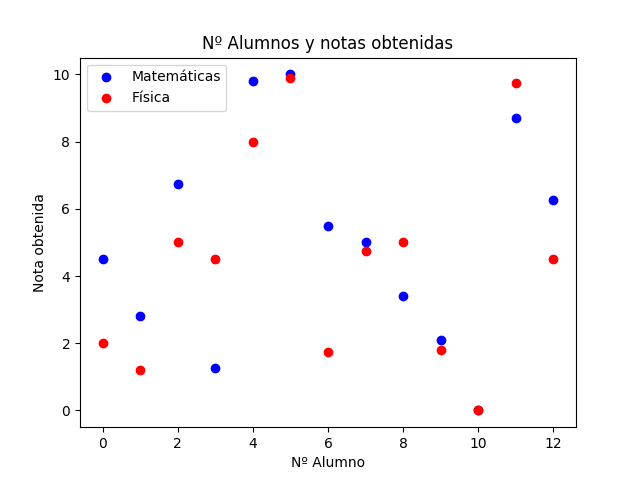
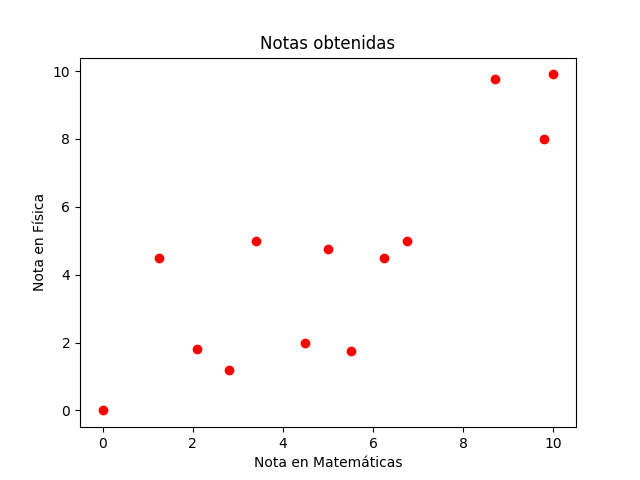
Casi terminada practica 2

diff --git a/Práctica 2 - Preparación de Datos/ges.py b/Práctica 2 - Preparación de Datos/ges.py
@@ -3,11 +3,16 @@ import pandas
 import numpy
 from chefboost import Chefboost
 from sklearn.model_selection import train_test_split
+from sklearn.naive_bayes import GaussianNB
 from sklearn.preprocessing import KBinsDiscretizer
+from sklearn.svm import LinearSVC
 from sklearn.tree import DecisionTreeClassifier, export_graphviz
 from sklearn.metrics import accuracy_score
+from mlxtend.feature_selection import SequentialFeatureSelector as sequential_feature
+from sklearn.linear_model import LinearRegression, LogisticRegression
 
-def loadDataset():
+
+def load_dataset():
     data = pandas.read_excel("data/accidentes_reduced.xls")
     features = data.columns[0:len(data.columns)-3]
     x = pandas.DataFrame(data[features])
@@ -20,9 +25,18 @@ def remove_columns(data, elements):
         data = data.drop(element, axis="columns")
     return data
 
-def discretize(x_train):
-    x_train = remove_columns(x_train, imputed)
-    x_train_disc = x_train
+
+def pred(x_train_arg, y_train_arg, x_test_arg, y_test_arg):
+    ctree = DecisionTreeClassifier(random_state=1)
+    ctree.fit(x_train_arg, y_train_arg)
+    y_pred = ctree.predict(x_test_arg)
+    return round(accuracy_score(y_test_arg, y_pred), 3)
+
+
+def discretize(x_train_arg, x_test_arg):
+    x_train_arg = remove_columns(x_train_arg, not_imputed)
+    x_test_arg = remove_columns(x_test_arg, not_imputed)
+    x_train_disc = x_train_arg
 
     # ["WKDY_I", "HOUR_I", "RELJCT_I", "MANCOL_I", "RELJCT_I", "ALIGN_I", "PROFIL_I", "SURCON_I", "TRFCON_I",
     #"SPDLIM_H", "LGTCON_I", "WEATHR_I", "ALCHL_I"]
@@ -31,60 +45,131 @@ def discretize(x_train):
 
     accuracy_mean_discr = 0
     accuracy_mean = 0
-
-    ctree = DecisionTreeClassifier(random_state=1)
     n = 10
 
     for variable, bin_i in zip(elements, bins):
         discr = KBinsDiscretizer(n_bins=bin_i, encode="ordinal", strategy="uniform")
 
         for i in range(n):
-            ctree.fit(x_train, y_train)
-            y_pred = ctree.predict(x_test)
-            accuracy_mean += accuracy_score(y_test, y_pred)
+            accuracy_mean += pred(x_train_arg, y_train, x_test_arg, y_test)
+            x_train_disc[variable] = discr.fit_transform(x_train_arg[variable].values.reshape(-1, 1))
+            accuracy_mean_discr += pred(x_train_disc, y_train, x_test_arg, y_test)
 
-            x_train_disc[variable] = discr.fit_transform(x_train[variable].values.reshape(-1, 1))
-            ctree.fit(x_train_disc, y_train)
-            y_pred = ctree.predict(x_test)
-            accuracy_mean_discr += accuracy_score(y_test, y_pred)
+    print("Accuracy: " + str(round(accuracy_mean / (n * len(elements)), 3)))
+    print("Accuracy Discretize: " + str(round(accuracy_mean_discr / (n * len(elements)), 3)))
 
-    print("Accuracy: " + str(accuracy_mean / (n * len(elements))))
-    print("Accuracy CAIM: " + str(accuracy_mean_discr / (n * len(elements))))
+    return x_train_disc
 
 
 def loss_values():
     x_train_imputed = remove_columns(x_train, not_imputed)
     x_test_imputed = remove_columns(x_test, not_imputed)
-
-    ctree = DecisionTreeClassifier(random_state=1)
-    ctree.fit(x_train_imputed, y_train)
-    y_pred = ctree.predict(x_test_imputed)
-    print("Accuracy Imputed: " + str(accuracy_score(y_test, y_pred)))
-
     x_train_not_imputed = remove_columns(x_train, imputed)
     x_test_not_imputed = remove_columns(x_test, imputed)
+    res_imputed = 0
+    res_not_imputed = 0
+    res_not_imputed_mean = 0
+    res_not_imputed_mode = 0
+    n = 10
 
-    ctree = DecisionTreeClassifier(random_state=1)
-    ctree.fit(x_train_not_imputed, y_train)
-    y_pred = ctree.predict(x_test_not_imputed)
-    print("Accuracy Not Imputed: " + str(accuracy_score(y_test, y_pred)))
-
-    #c) Imputar valores por media o moda
+    x_train_not_imputed_mode = remove_columns(x_train, imputed)
+    x_train_not_imputed_mean = remove_columns(x_train, imputed)
+    x_test_not_imputed = remove_columns(x_test, imputed)
     unknown = [9, 99, 9, 19, 99, 9, 9, 9, 29, 49, 99, 99, 9, 9, 9]
 
-    for variable, value in zip(not_imputed, unknown):
-        x_train_not_imputed[variable] =  x_train_not_imputed[variable].replace(value, None)
+    for i in range(n):
+        res_imputed += pred(x_train_imputed, y_train, x_test_imputed, y_test)
+        res_not_imputed += pred(x_train_not_imputed, y_train, x_test_not_imputed, y_test)
 
-        mean = x_train_not_imputed[variable].mean()
-        x_train_not_imputed[variable].fillna(value=mean)
+        for variable, value in zip(not_imputed, unknown):
+            x_train_not_imputed_mean[variable] = x_train_not_imputed_mean[variable].replace(value, None)
 
-    tree = DecisionTreeClassifier(random_state=1)
-    ctree.fit(x_train_not_imputed, y_train)
-    y_pred = ctree.predict(x_test_not_imputed)
-    print("Accuracy Not Imputed Mean: " + str(accuracy_score(y_test, y_pred)))
+            mean = x_train_not_imputed_mean[variable].mean()
+            x_train_not_imputed_mean[variable].fillna(value=mean)
+
+            mode = x_train_not_imputed_mode[variable].mode()[0]
+            x_train_not_imputed_mode[variable].replace(value, mode, inplace=True)
+
+        res_not_imputed_mean += pred(x_train_not_imputed_mean, y_train, x_test_not_imputed, y_test)
+        res_not_imputed_mode += pred(x_train_not_imputed_mode, y_train, x_test_not_imputed, y_test)
+
+    x_train_imputed_instances = x_train_imputed
+    x_test_imputed_instances = x_test_imputed
+
+    for i in x_train_imputed_instances.columns:
+        x_train_imputed_instances[(x_train_imputed_instances[i] != 9) & (x_train_imputed_instances[i] != 19)
+        & (x_train_imputed_instances[i] != 29) & (x_train_imputed_instances[i] != 49) & (x_train_imputed_instances[i] != 99)]
+        
+        x_test_imputed_instances[(x_test_imputed_instances[i] != 9) & (x_test_imputed_instances[i] != 19)
+        & (x_test_imputed_instances[i] != 29) & (x_test_imputed_instances[i] != 49) & (
+        x_test_imputed_instances[i] != 99)]
+
+    acc_imputed_removed_instances = pred(x_train_imputed, y_train, x_test_imputed, y_test)
+
+    x_train_imputed = remove_columns(x_train, not_imputed)
+    x_train_imputed = remove_columns(x_train_imputed, imputed)
+    x_test_imputed = remove_columns(x_test_imputed, imputed)
+    acc_imputed_removed_characteristics = pred(x_train_imputed, y_train, x_test_imputed, y_test)
+
+    acc_imputed = round(res_imputed/n, 3)
+    acc_not_imputed = round(res_not_imputed/n, 3)
+    acc_not_imputed_mean = round(res_not_imputed_mean/n, 3)
+    acc_not_imputed_mode = round(res_not_imputed_mode/n, 3)
+
+    print("Accuracy Imputed: " + str(acc_imputed))
+    print("Accuracy Not Imputed: " + str(acc_not_imputed))
+    print("Accuracy Not Imputed Mean: " + str(acc_not_imputed_mean))
+    print("Accuracy Not Imputed Mode: " + str(acc_not_imputed_mode))
+    print("Accuracy Imputed Removed Instances: " + str(acc_imputed_removed_instances))
+    print("Accuracy Imputed Removed Characteristics: " + str(acc_imputed_removed_characteristics))
+
+    best = {acc_imputed : "Imputed",
+    acc_not_imputed : "Not Imputed",
+    acc_not_imputed_mean : "Not Imputed Mean",
+    acc_not_imputed_mode : "Not Imputed Mode",
+    acc_imputed_removed_instances : "Imputed Removed Instances",
+    acc_imputed_removed_characteristics : "Imputed Removed Characteristics"}
+
+    sort = sorted(best.items(), reverse=True)[0]
+
+
+    if sort[1] == "Imputed":
+        return x_train_imputed
+    elif sort[1] == "Not Imputed":
+        return x_train
+    elif sort[1] == "Not Imputed Mean":
+        return x_train_not_imputed_mean
+    elif sort[1] == "Not Imputed Mode":
+        return x_train_not_imputed_mode
+    elif sort[1] == "Imputed Removed Instances":
+        return x_train_imputed_instances
+    elif sort[1] == "Imputed Removed Characteristics":
+        return x_train_imputed
+
+
+#https://www.analyticsvidhya.com/blog/2021/04/backward-feature-elimination-and-its-implementation/
+def selection(x_train_discr, x_test):
+    x_test = remove_columns(x_test, not_imputed)
+    all = pred(x_train_discr, y_train, x_test, y_test)
+
+    s = sequential_feature(GaussianNB(), k_features=3, forward=False)
+    s = s.fit(x_train_discr, y_train)
+    features = list(s.k_feature_names_)
+
+    not_selected = list(set(x_train_discr.columns) - set(features))
+
+    x_train_discr = remove_columns(x_train_discr, not_selected)
+    x_test = remove_columns(x_test, not_selected)
+    removed_features = pred(x_train_discr, y_train, x_test, y_test)
+
+    print("Accuracy All: " + str(all))
+    print("Features: " + str(features))
+    print("Accuracy Removed Features: " + str(removed_features))
+
 
 if __name__ == "__main__":
-    x, y = loadDataset()
+    x, y = load_dataset()
+
     not_imputed = ["WEEKDAY", "HOUR", "MAN_COL", "REL_JCT", "ALIGN", "PROFILE", "SUR_COND", "TRAF_CON",
     "SPD_LIM", "LGHT_CON", "WEATHER", "ALCOHOL"]
     imputed =  ["WKDY_I", "HOUR_I", "MANCOL_I", "RELJCT_I", "ALIGN_I", "PROFIL_I", "SURCON_I", "TRFCON_I",
@@ -93,7 +178,12 @@ if __name__ == "__main__":
     x_train, x_test, y_train, y_test = train_test_split(x, y, train_size=0.6)
 
     #Ejercicio 1
-    #discretize(x_train)
+    x_train_discr = discretize(x_train, x_test)
+
     #Ejercicio 2
-    #a
-    loss_values()
+    best = loss_values()
+
+    #Ejercicio 3
+    # x_train_discr
+    selection(x_train_discr, x_test)
+

diff --git a/Práctica 1 - Visualización/main.py b/Práctica 1 - Visualización/main.py
@@ -57,12 +57,10 @@ def ejercicio4():
     y_mat = [4.5, 2.8, 6.75, 1.25, 9.8, 10, 5.5, 5, 3.4, 2.1, 0, 8.7, 6.25]
     y_fis = [2, 1.2, 5, 4.5, 8, 9.9, 1.75, 4.75, 5, 1.8, 0, 9.75, 4.5]
 
-    plot.scatter(range(len(y_mat)), y_mat, color="b", label="Matemáticas")
-    plot.scatter(range(len(y_fis)), y_fis, color="r", label="Física")
-    plot.xlabel("Nº Alumno")
-    plot.ylabel("Nota obtenida")
-    plot.title("Nº Alumnos y notas obtenidas")
-    plot.legend()
+    plot.scatter(y_mat, y_fis, color="r")
+    plot.xlabel("Nota en Matemáticas")
+    plot.ylabel("Nota en Física")
+    plot.title("Notas obtenidas")
     plot.savefig("ejercicio4.png")
     plot.show()
 
@@ -91,10 +89,21 @@ def ejercicio6():
     plot.savefig("ejercicio6_hist.png")
     plot.show()
 
-    plot.scatter(range(len(familySize)), familySize, alpha=0.5, s=500)
-    plot.yticks(range(max(familySize)+1))
+    x = familySize
+    y = [np.count_nonzero(familySize == 1), np.count_nonzero(familySize == 2),
+    np.count_nonzero(familySize == 3), np.count_nonzero(familySize == 4)]
+    plot.scatter(x, y, alpha=0.5, s=500)
     plot.title("Nº Miembros Familia")
+    plot.xlabel("Nº miembros")
+    plot.ylabel("Nº Personas")
     plot.savefig("ejercicio6_bubble.png")
+    plot.show()
+
+    plot.pie([np.count_nonzero(familySize == 1), np.count_nonzero(familySize == 2),
+    np.count_nonzero(familySize == 3), np.count_nonzero(familySize == 4)],
+    labels=[(1, np.count_nonzero(familySize == 1)), (2, np.count_nonzero(familySize == 2)), (3, np.count_nonzero(familySize == 3)), (4, np.count_nonzero(familySize == 4))])
+    plot.title("Nº Miembros Familia")
+    plot.savefig("ejercicio6_!_bubble.png")
     plot.show()
 
     plot.scatter(age, experience, alpha=0.5, c="r")
@@ -116,4 +125,4 @@ def ejercicio6():
     plot.show()
 
 if __name__ == '__main__':
-    ejercicio5()
+    ejercicio6()
